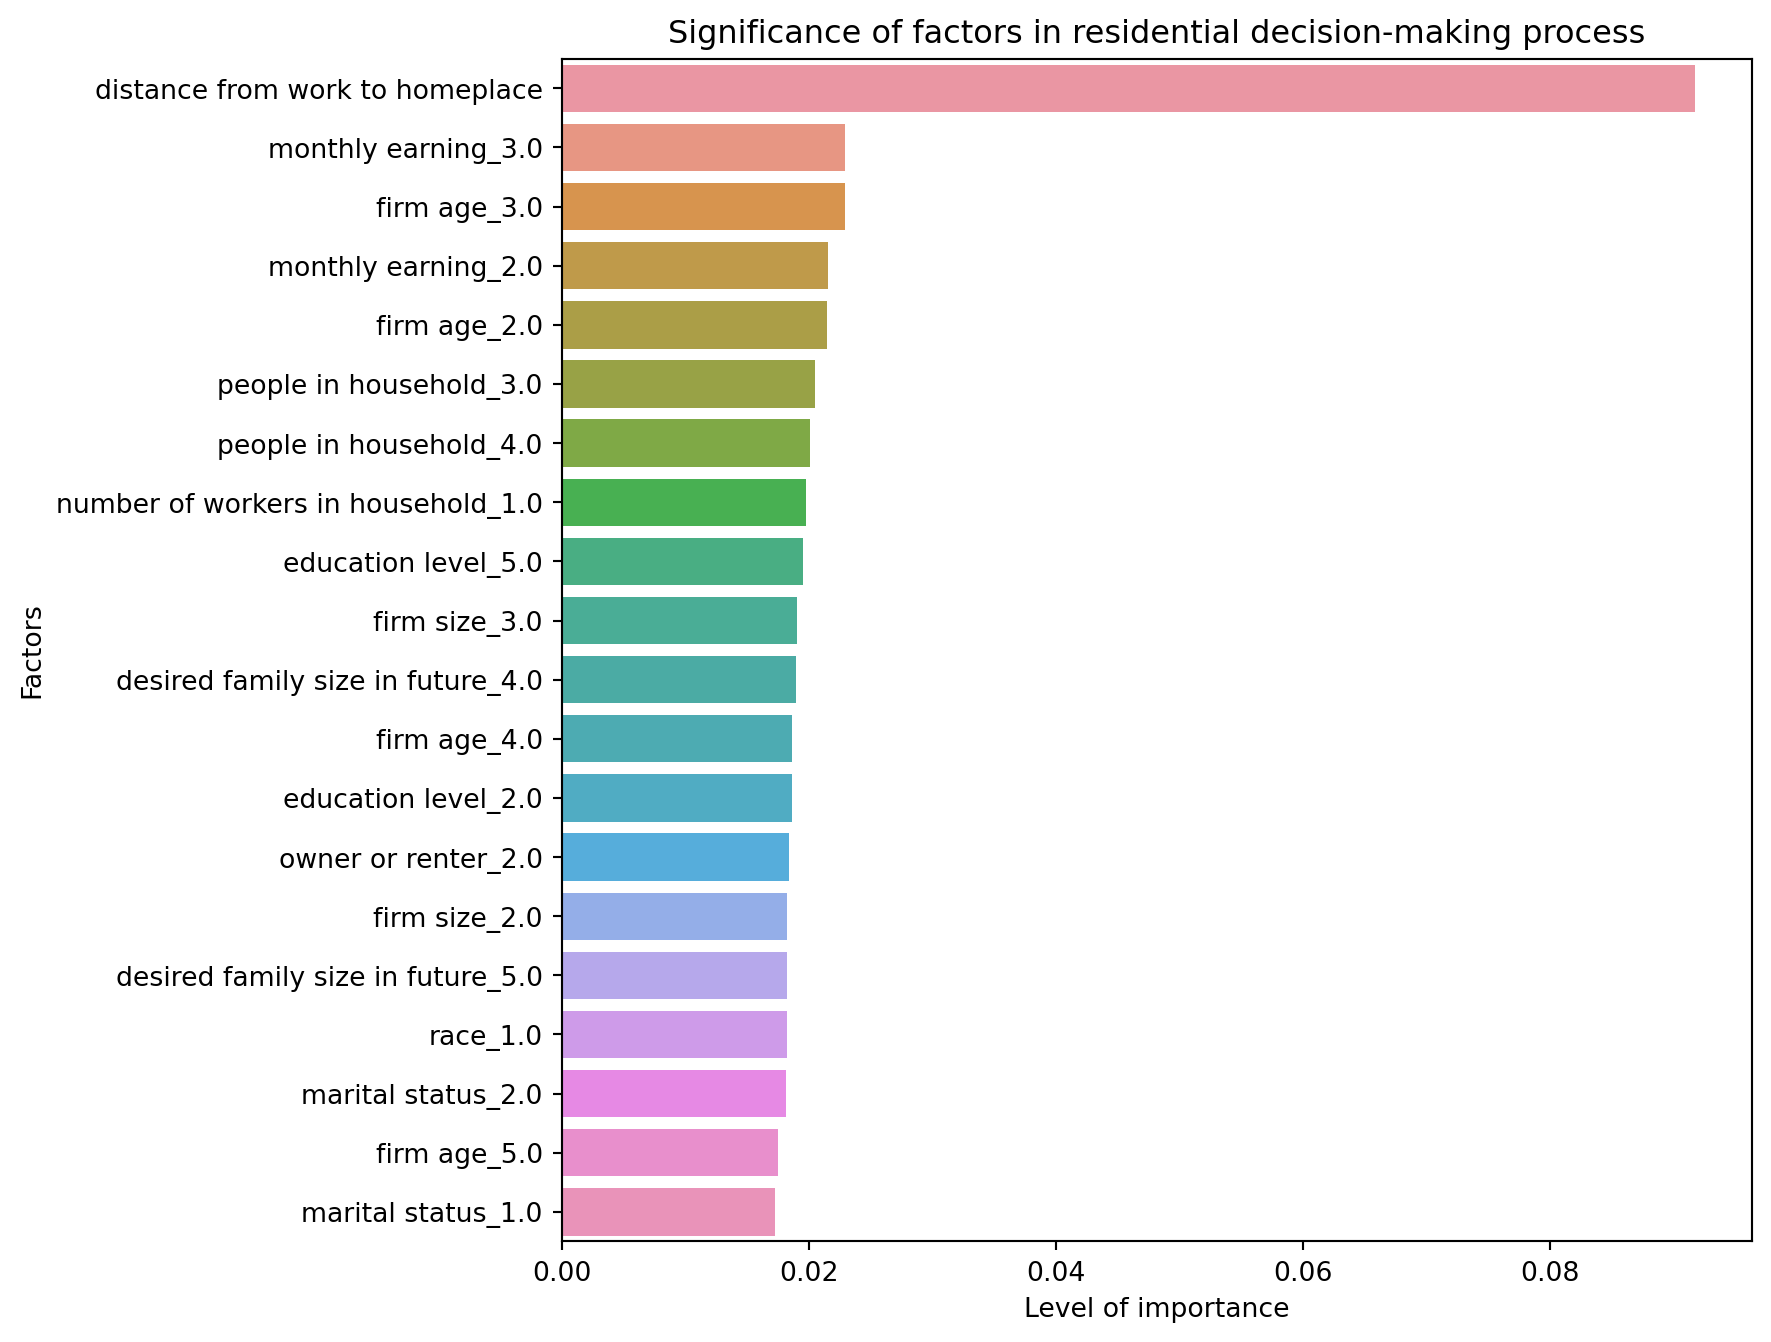
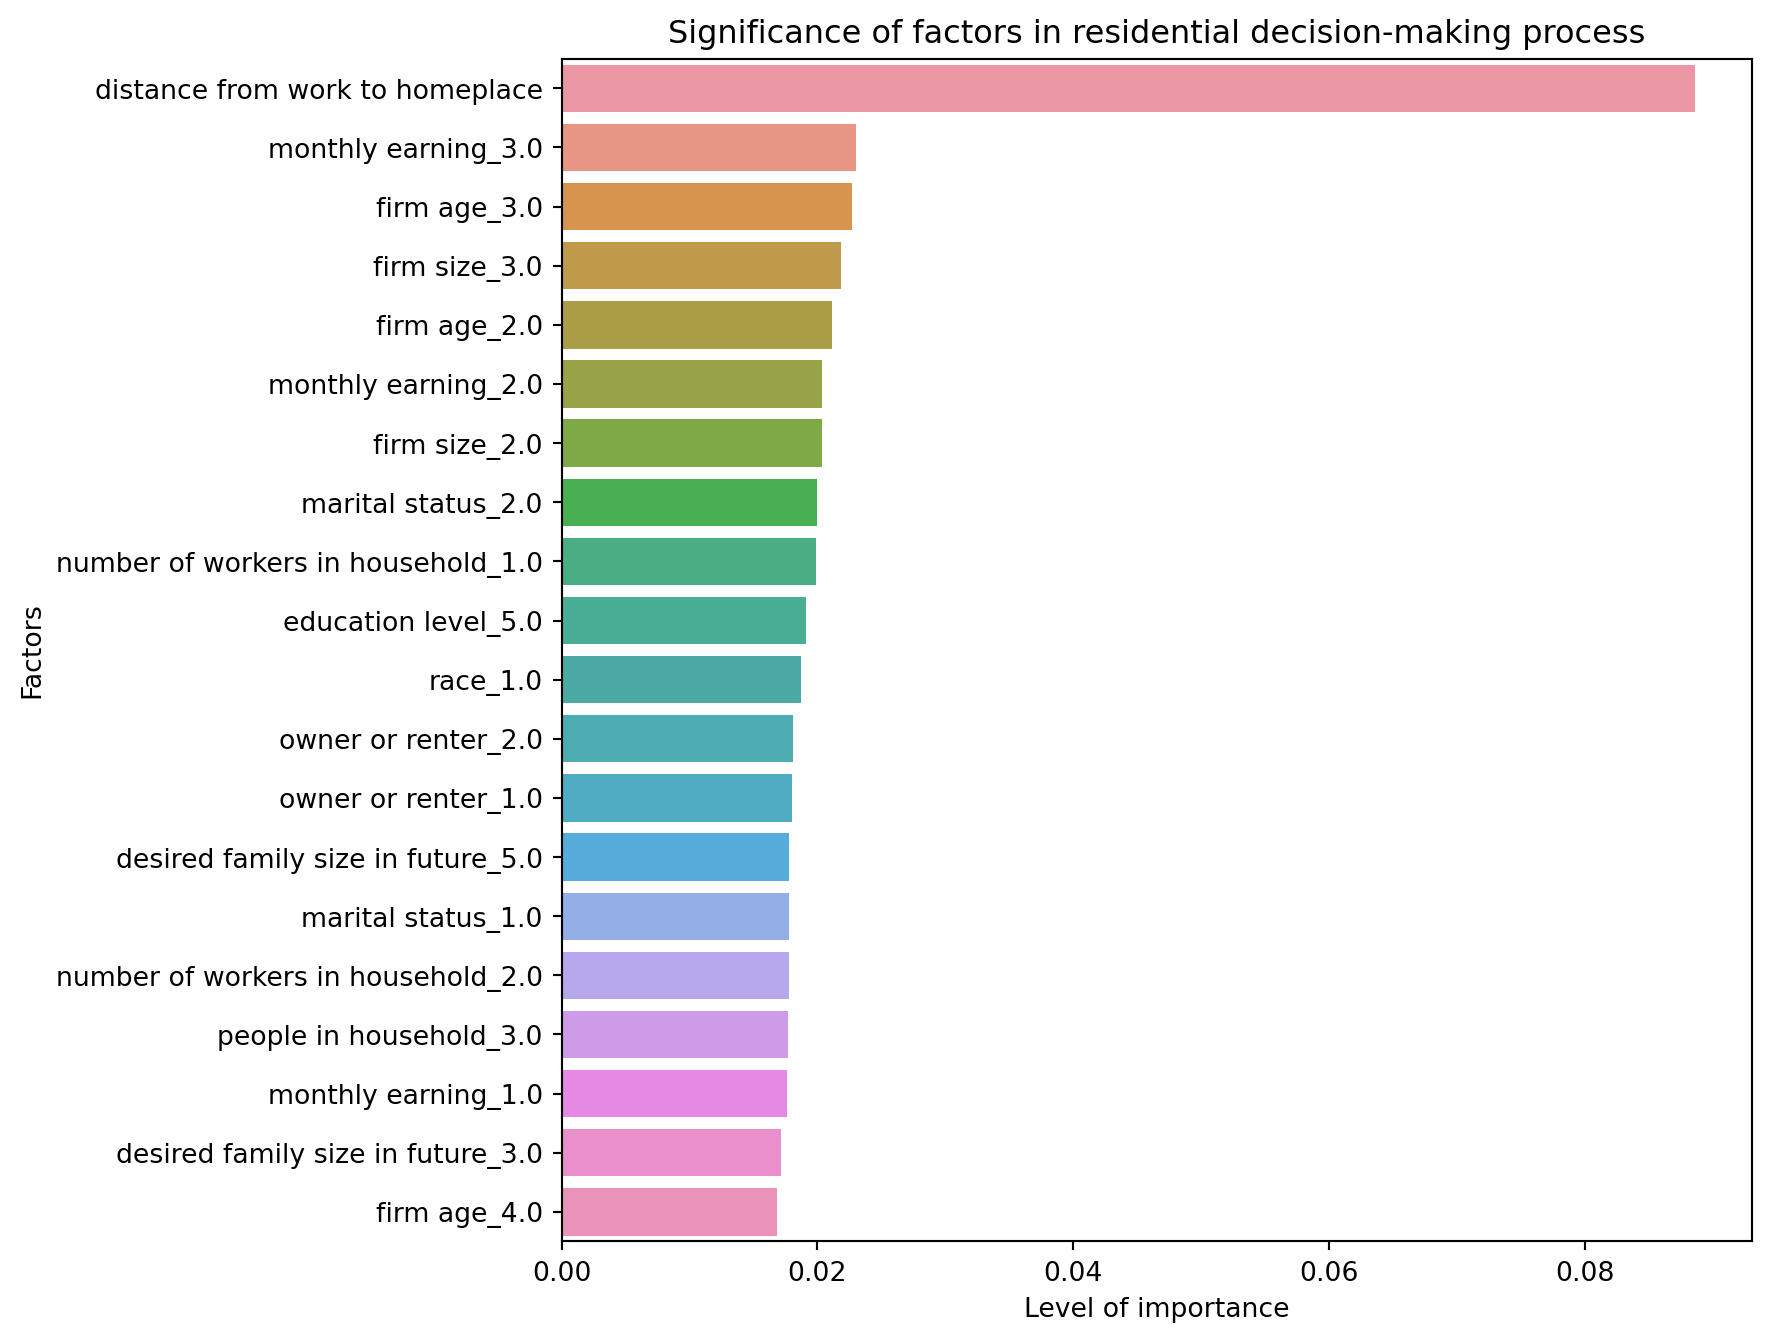
U

diff --git a/docs/posts/Classification/index.html b/docs/posts/Classification/index.html
@@ -270,81 +270,97 @@ pre > code.sourceCode > span > a:first-child::before { text-decoration: underlin
 <span id="cb1-60"><a href="#cb1-60" aria-hidden="true" tabindex="-1"></a>    <span class="bu">print</span>(<span class="ss">f'</span><span class="sc">{</span>feature_names[i]<span class="sc">}</span><span class="ss">: </span><span class="sc">{</span>importances[i]<span class="sc">}</span><span class="ss">'</span>)</span></code><button title="Copy to Clipboard" class="code-copy-button"><i class="bi"></i></button></pre></div>
 <div class="cell-output cell-output-stdout">
 <pre><code>Feature Importances:
-distance from work to homeplace: 0.09174969793381127
-monthly earning_3.0: 0.022937019675746764
-firm age_3.0: 0.022890969338009243
-monthly earning_2.0: 0.02156596817409567
-firm age_2.0: 0.021460008379621264
-people in household_3.0: 0.02053888831230428
-people in household_4.0: 0.020085095960985996
-number of workers in household_1.0: 0.019789529274295
-education level_5.0: 0.019570004334740057
-firm size_3.0: 0.019065092028986097
-desired family size in future_4.0: 0.018979387209474518
-firm age_4.0: 0.018670453099234
-education level_2.0: 0.018652014240293918
-owner or renter_2.0: 0.01838872556634251
-firm size_2.0: 0.018234612438420453
-desired family size in future_5.0: 0.01820343447459414
-race_1.0: 0.018201676380434795
-marital status_2.0: 0.01812178745939809
-firm age_5.0: 0.017485634561929524
-marital status_1.0: 0.01723016048029202
-monthly earning_1.0: 0.016960293358482825
-desired family size in future_3.0: 0.016567859172982317
-desired family size in future_2.0: 0.016236436440765514
-education level_6.0: 0.01603573254050718
-number of workers in household_2.0: 0.015201336613609643
-people in household_5.0: 0.01508019884291919
-owner or renter_1.0: 0.01496238488593608
-number of workers in household_3.0: 0.014389993623411909
-industry sector_Manufacturing: 0.0143609484197535
-firm size_4.0: 0.014173522390374902
-firm size_1.0: 0.013329129515579567
-desired family size in future_1.0: 0.013206296730855589
-industry sector_Mining, Quarrying, and Oil and Gas Extraction: 0.012842552328495259
-race_3.0: 0.012667697126210423
-education level_3.0: 0.012652356854937295
-people in household_2.0: 0.012410500529478445
-industry sector_Management of Companies and Enterprises: 0.01238536803782589
-industry sector_Wholesale Trade: 0.01231908295326173
-industry sector_Professional, Scientific, and Technical Services: 0.012091732987649038
-race_2.0: 0.011247056828657303
-industry sector_Retail Trade: 0.011226646971989525
-industry sector_Construction: 0.01073959773884714
-race_4.0: 0.010644736810019453
-firm size_5.0: 0.010580592550068409
-industry sector_Transportation and Warehousing: 0.010384044572196383
-industry sector_Educational Services: 0.010071915745078439
-education level_7.0: 0.009931061083292305
-people in household_1.0: 0.00973549151172786
-monthly earning_4.0: 0.009700944422110341
-race_8.0: 0.009153698927172042
-industry sector_Accommodation and Food Services: 0.009045897179073264
-marital status_5.0: 0.008954239870004137
-marital status_3.0: 0.008828659946391055
-industry sector_Information: 0.008594258342910345
-industry sector_Finance and Insurance: 0.008515949553436285
-education level_8.0: 0.008290251461514053
-race_5.0: 0.008225602604706143
-industry sector_Health Care and Social Assistance: 0.008001694476173217
-education level_4.0: 0.007641200003956733
-marital status_4.0: 0.0075853258601279085
-firm age_1.0: 0.007485988626125388
-marital status_6.0: 0.007472501437329649
-education level_1.0: 0.007294000896486925
-industry sector_Agriculture, Forestry, Fishing and Hunting: 0.0071108132332497595
-race_7.0: 0.00689788540929831
-race_6.0: 0.006814775383703133
-industry sector_Other Services [except Public Administration: 0.0066283681702095695
-industry sector_Arts, Entertainment, and Recreation: 0.006359287816922705
-industry sector_Utilities: 0.006313902665445216
-industry sector_Administrative and Support and Waste Management and Remediation Services: 0.0038235082295027195
-industry sector_Real Estate and Rental and Leasing: 0.003800051320680852
-industry sector_Public Administration: 0.003206467675547578</code></pre>
+distance from work to homeplace: 0.08863550690257174
+monthly earning_3.0: 0.02299345171929376
+firm age_3.0: 0.022708304828028134
+firm size_3.0: 0.021839900909916117
+firm age_2.0: 0.021164805302006186
+monthly earning_2.0: 0.02037797612213834
+firm size_2.0: 0.02036770397620795
+marital status_2.0: 0.019927497845775233
+number of workers in household_1.0: 0.019895658372202044
+education level_5.0: 0.01908137671466373
+race_1.0: 0.018711495963914585
+owner or renter_2.0: 0.01804782360639595
+owner or renter_1.0: 0.01804591442711778
+desired family size in future_5.0: 0.017811965447317425
+marital status_1.0: 0.017789842565256498
+number of workers in household_2.0: 0.01773686700699325
+people in household_3.0: 0.017704869506593054
+monthly earning_1.0: 0.017605103145178377
+desired family size in future_3.0: 0.017150849777900753
+firm age_4.0: 0.01680297066055305
+people in household_4.0: 0.01674958842636753
+industry sector_Manufacturing: 0.016412182684830117
+firm age_5.0: 0.016144213392793053
+education level_6.0: 0.01580188570887778
+education level_2.0: 0.015497073861515422
+desired family size in future_4.0: 0.015427150839818389
+desired family size in future_2.0: 0.015151024162658042
+industry sector_Wholesale Trade: 0.014924100316669735
+firm size_4.0: 0.014840275228529543
+number of workers in household_3.0: 0.014605290170853253
+industry sector_Professional, Scientific, and Technical Services: 0.014182225953681835
+people in household_2.0: 0.013874808914993162
+desired family size in future_1.0: 0.013844406249205075
+industry sector_Retail Trade: 0.013428405190367733
+race_3.0: 0.013281522308033724
+firm size_5.0: 0.013071645891208157
+people in household_5.0: 0.0129485707805355
+education level_8.0: 0.012037118759656367
+firm size_1.0: 0.01189582885470363
+industry sector_Mining, Quarrying, and Oil and Gas Extraction: 0.011655337609160194
+industry sector_Management of Companies and Enterprises: 0.010741729396644433
+industry sector_Accommodation and Food Services: 0.010623806797239177
+race_2.0: 0.010544453169508613
+education level_3.0: 0.01039140727589699
+monthly earning_4.0: 0.010025852358386038
+industry sector_Educational Services: 0.00991015593253264
+education level_7.0: 0.00985370259003696
+race_4.0: 0.009639879766283015
+industry sector_Transportation and Warehousing: 0.00935234990408359
+industry sector_Construction: 0.009161637911469837
+firm age_1.0: 0.009102273499803668
+race_5.0: 0.008798580658358056
+marital status_5.0: 0.008756364501182863
+marital status_6.0: 0.008556863601472309
+race_8.0: 0.008498558682695827
+industry sector_Finance and Insurance: 0.008253773743950182
+people in household_1.0: 0.008130933136250969
+industry sector_Information: 0.007962540675902486
+marital status_3.0: 0.007873845275265946
+education level_4.0: 0.007854596880781078
+industry sector_Health Care and Social Assistance: 0.007804269604258762
+race_7.0: 0.007727369247349387
+industry sector_Agriculture, Forestry, Fishing and Hunting: 0.0076865221447283616
+race_6.0: 0.007493538557051645
+marital status_4.0: 0.00692569303342718
+education level_1.0: 0.006564622331465519
+industry sector_Other Services [except Public Administration: 0.0065626226949219565
+industry sector_Arts, Entertainment, and Recreation: 0.006045495522466753
+industry sector_Utilities: 0.0058850829687307656
+industry sector_Real Estate and Rental and Leasing: 0.00512056503776669
+industry sector_Public Administration: 0.0039970175457434256
+industry sector_Administrative and Support and Waste Management and Remediation Services: 0.0039813554498627605</code></pre>
 </div>
 </div>
-<p>The results were clear: The commute to work stood out as the number one factor. This wasn’t too surprising – after all, who wants to spend hours in traffic when they could be home relaxing? Income was also a key factor. It seems the more we earn, the more choices we have about where we live.</p>
+<ul>
+<li><p><em>[<code>General Interpretation:</code></em></p>
+<ul>
+<li><p><em><code>The features with higher importance scores are more influential in determining the preferred living area. This doesn’t necessarily mean causation but indicates a stronger association.</code></em></p></li>
+<li><p><em><code>The model suggests that practical considerations like distance to work, firm age, earnings, and household characteristics play a significant role in determining living area preferences.</code></em></p></li>
+</ul>
+<ol type="1">
+<li><p><em><code>Caveats:</code></em></p>
+<ul>
+<li><p><em><code>The Random Forest model treats the problem as a classification task and does not inherently account for the ordinal nature of the dependent variable.</code></em></p></li>
+<li><p><em><code>The results should be interpreted as indicative rather than definitive. For more precise modeling of ordinal outcomes, specific ordinal regression models would be more appropriate.</code></em></p></li>
+</ul></li>
+</ol></li>
+<li><p><em><code>In summary, your model’s output provides a useful guide to understanding which factors are most influential in determining living area preferences, with distance from work appearing as the most significant factor according to this model.]</code></em><br>
+<br>
+The results were clear: The commute to work stood out as the number one factor. This wasn’t too surprising – after all, who wants to spend hours in traffic when they could be home relaxing? Income was also a key factor. It seems the more we earn, the more choices we have about where we live.</p></li>
+</ul>
 <p>But it’s not all about money and travel time. The data also showed us that personal factors, like whether someone is married or planning for a big family, have a big say in the decision too.</p>
 <p>This isn’t just interesting information. It’s valuable knowledge for city planners and developers. By understanding what’s important to residents, they can plan and build communities that better meet people’s needs and make Roanoke an even better place to live.</p>
 <p>So next time you’re driving through Roanoke’s neighborhoods, remember that each home you see represents a decision made based on a unique mix of practical needs and personal dreams.</p>

diff --git a/docs/index.html b/docs/index.html
@@ -363,7 +363,7 @@ Heba Nusair
 </a>
 </div>
 </div>
-<div class="quarto-post image-right" data-index="3" data-categories="news,code,analysis" data-listing-date-sort="1699246800000" data-listing-file-modified-sort="1700909948198" data-listing-date-modified-sort="NaN" data-listing-reading-time-sort="6">
+<div class="quarto-post image-right" data-index="3" data-categories="news,code,analysis" data-listing-date-sort="1699246800000" data-listing-file-modified-sort="1700910558629" data-listing-date-modified-sort="NaN" data-listing-reading-time-sort="7">
 <div class="thumbnail">
 <p><a href="./posts/Classification/index.html"> <img src="./posts/Classification/image.jpg" class="thumbnail-image"> </a></p>
 </div>

diff --git a/docs/Research Insights Explorer Using Machine learning.html b/docs/Research Insights Explorer Using Machine learning.html
@@ -338,7 +338,7 @@ Nov 6, 2023
 </div>
 </a>
 </div>
-<div class="g-col-1" data-index="3" data-categories="news,code,analysis" data-listing-date-sort="1699246800000" data-listing-file-modified-sort="1700909948198" data-listing-date-modified-sort="NaN" data-listing-reading-time-sort="6">
+<div class="g-col-1" data-index="3" data-categories="news,code,analysis" data-listing-date-sort="1699246800000" data-listing-file-modified-sort="1700910558629" data-listing-date-modified-sort="NaN" data-listing-reading-time-sort="7">
 <a href="./posts/Classification/index.html" class="quarto-grid-link">
 <div class="quarto-grid-item card h-100 card-left">
 <p class="card-img-top">
